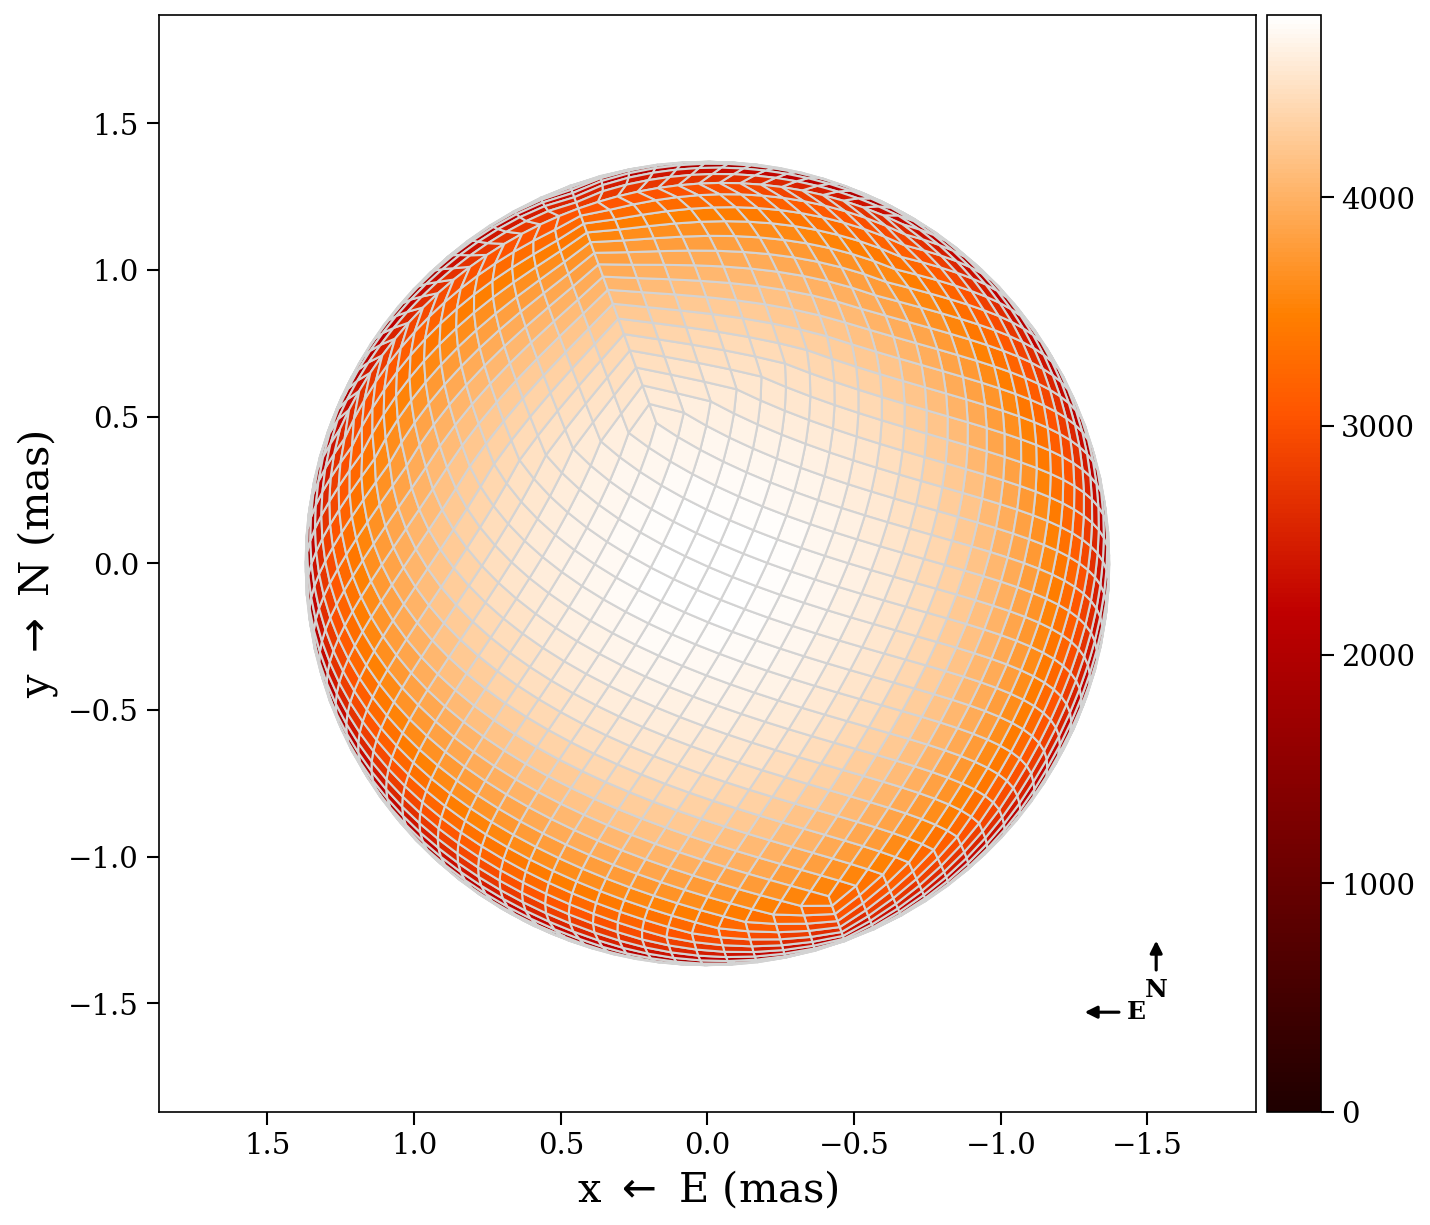
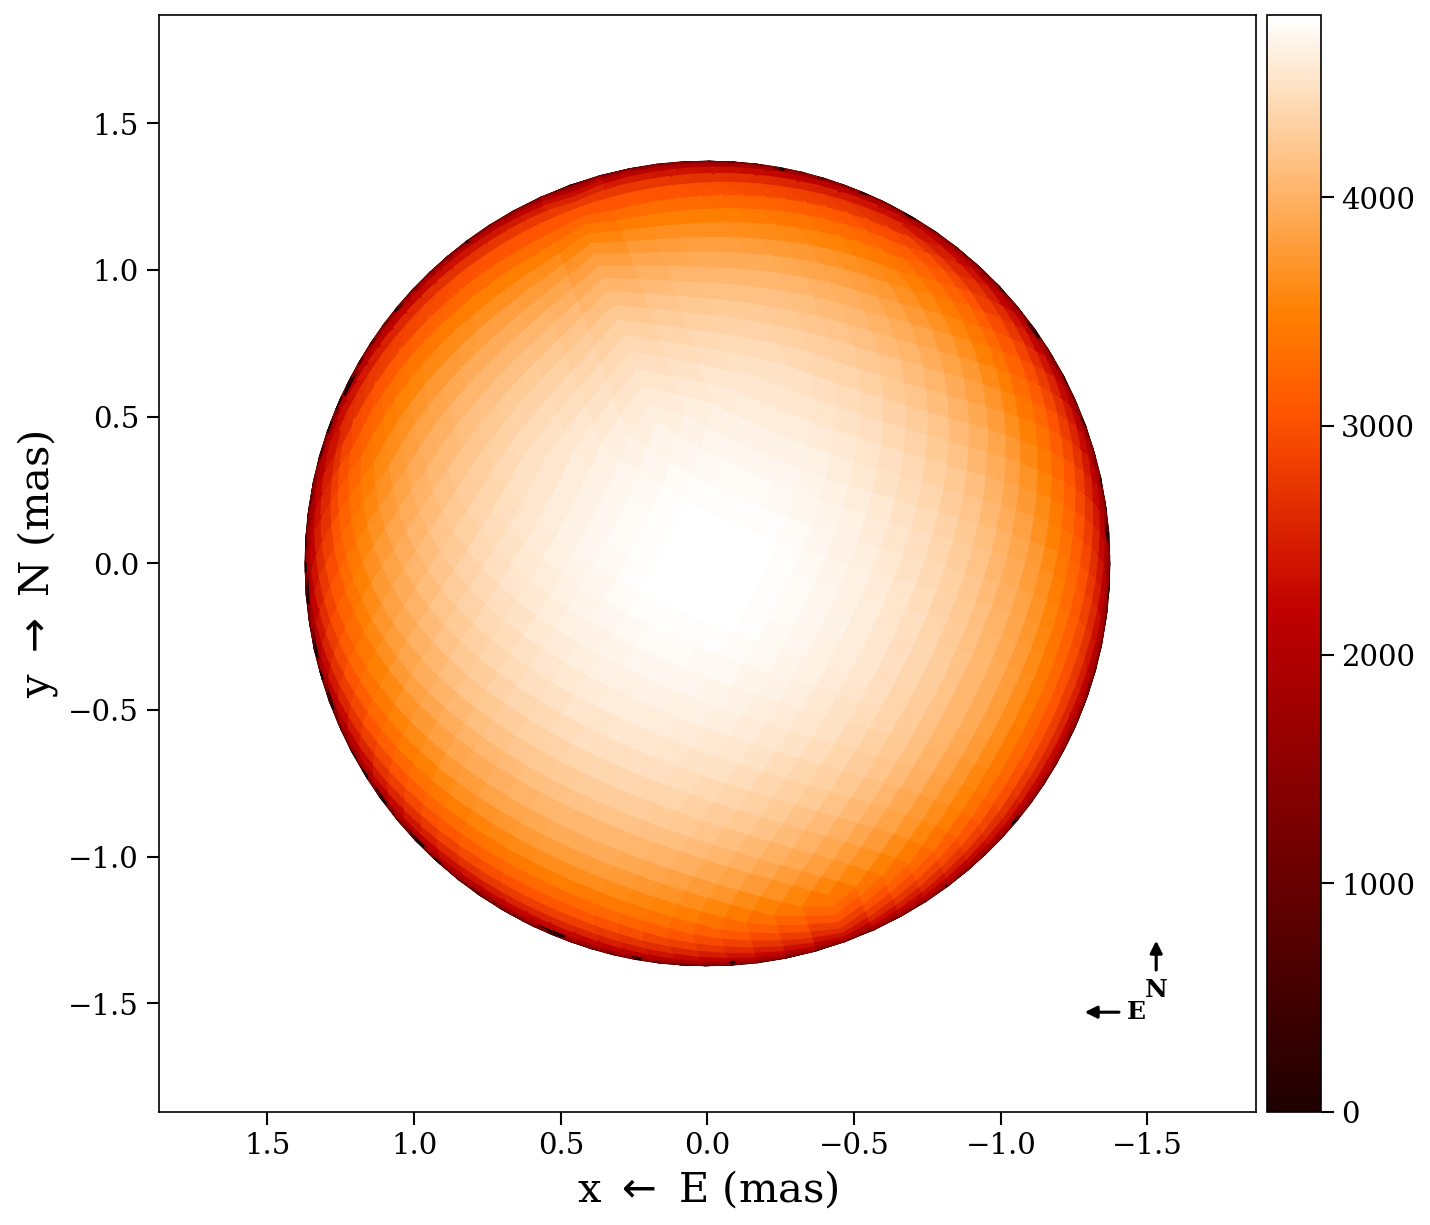
Graticule keywords available

Changed region(s): [[0.2154, 0.1241, 0.8, 0.8065]]

diff --git a/docs/src/guides/plotting.md b/docs/src/guides/plotting.md
@@ -25,11 +25,43 @@ plot2d(tmap, stars[1];
     graticules     = false,       # draw lat/lon grid lines on the surface
     rotation_axis  = false,       # draw dashed line through poles
     rotation_arrow = false,       # draw spin direction arrow at north pole
+    star_params    = nothing,     # pass star_params for exact graticules
+    graticule_kwargs = (;),       # graticule style overrides (see below)
 )
 ```
 
 The projection shows the sky plane in milliarcseconds (East left, North up).
 Only pixels with positive soft visibility weight are rendered.
+
+### Graticules
+
+When `graticules = true`, latitude/longitude grid lines are drawn on the stellar
+surface. Pass `star_params` to use the exact surface geometry:
+
+- **Sphere** (type 0): uses `radius` directly
+- **Triaxial ellipsoid** (type 1): uses `radius_x`, `radius_y`, `radius_z` — latitude circles are ellipses when the equatorial radii differ
+- **Rapid rotator** (type 2): uses `rpole` and `frac_escapevel` — longitude lines follow the exact Roche meridional profile via `f_rapid_rot`
+
+Without `star_params`, graticules fall back to an oblate spheroid approximation
+estimated from the tessellation vertices.
+
+Customize the graticule appearance via `graticule_kwargs`:
+
+```julia
+plot2d(tmap, star;
+    graticules = true,
+    star_params = star_params,
+    graticule_kwargs = (
+        nlat      = 8,        # number of latitude circles (default 5)
+        nlon      = 12,       # number of longitude lines (default 8)
+        color     = "white",  # line color (default "black")
+        linewidth = 0.6,      # line width (default 0.8)
+        alpha     = 0.4,      # opacity (default 0.5)
+    ),
+)
+```
+
+![Graticule styles](../assets/graticule_styles.png)
 
 ### Examples
 

diff --git a/docs/src/api/plotting.md b/docs/src/api/plotting.md
@@ -41,6 +41,19 @@ these functions.
 | `graticules` | `false` | Draw latitude/longitude grid lines on the surface |
 | `rotation_axis` | `false` | Draw the rotation axis (dashed line through poles) |
 | `rotation_arrow` | `false` | Draw spin direction arrow at the north pole |
+| `star_params` | `nothing` | Star parameters NamedTuple for exact graticule geometry (sphere, triaxial ellipsoid, rapid rotator) |
+| `graticule_kwargs` | `(;)` | Style overrides passed to `draw_graticules` (see below) |
+
+### Graticule style (`graticule_kwargs`)
+
+| Key | Default | Description |
+|-----|---------|-------------|
+| `nlat` | `5` | Number of latitude circles |
+| `nlon` | `8` | Number of longitude lines |
+| `color` | `"black"` | Line color |
+| `linewidth` | `0.8` | Line width |
+| `alpha` | `0.5` | Opacity |
+| `npoints` | `200` | Points per curve (resolution) |
 
 ## Binary sky-plane
 
@@ -54,6 +67,8 @@ these functions.
 |---------|---------|-------------|
 | `inclination1`, `position_angle1` | `NaN` | Override star 1 orientation for decorations |
 | `inclination2`, `position_angle2` | `NaN` | Override star 2 orientation for decorations |
+| `star_params1`, `star_params2` | `nothing` | Star parameters for exact graticule geometry on each component |
+| `graticule_kwargs` | `(;)` | Graticule style overrides (shared by both components) |
 
 ## Radial velocity
 
